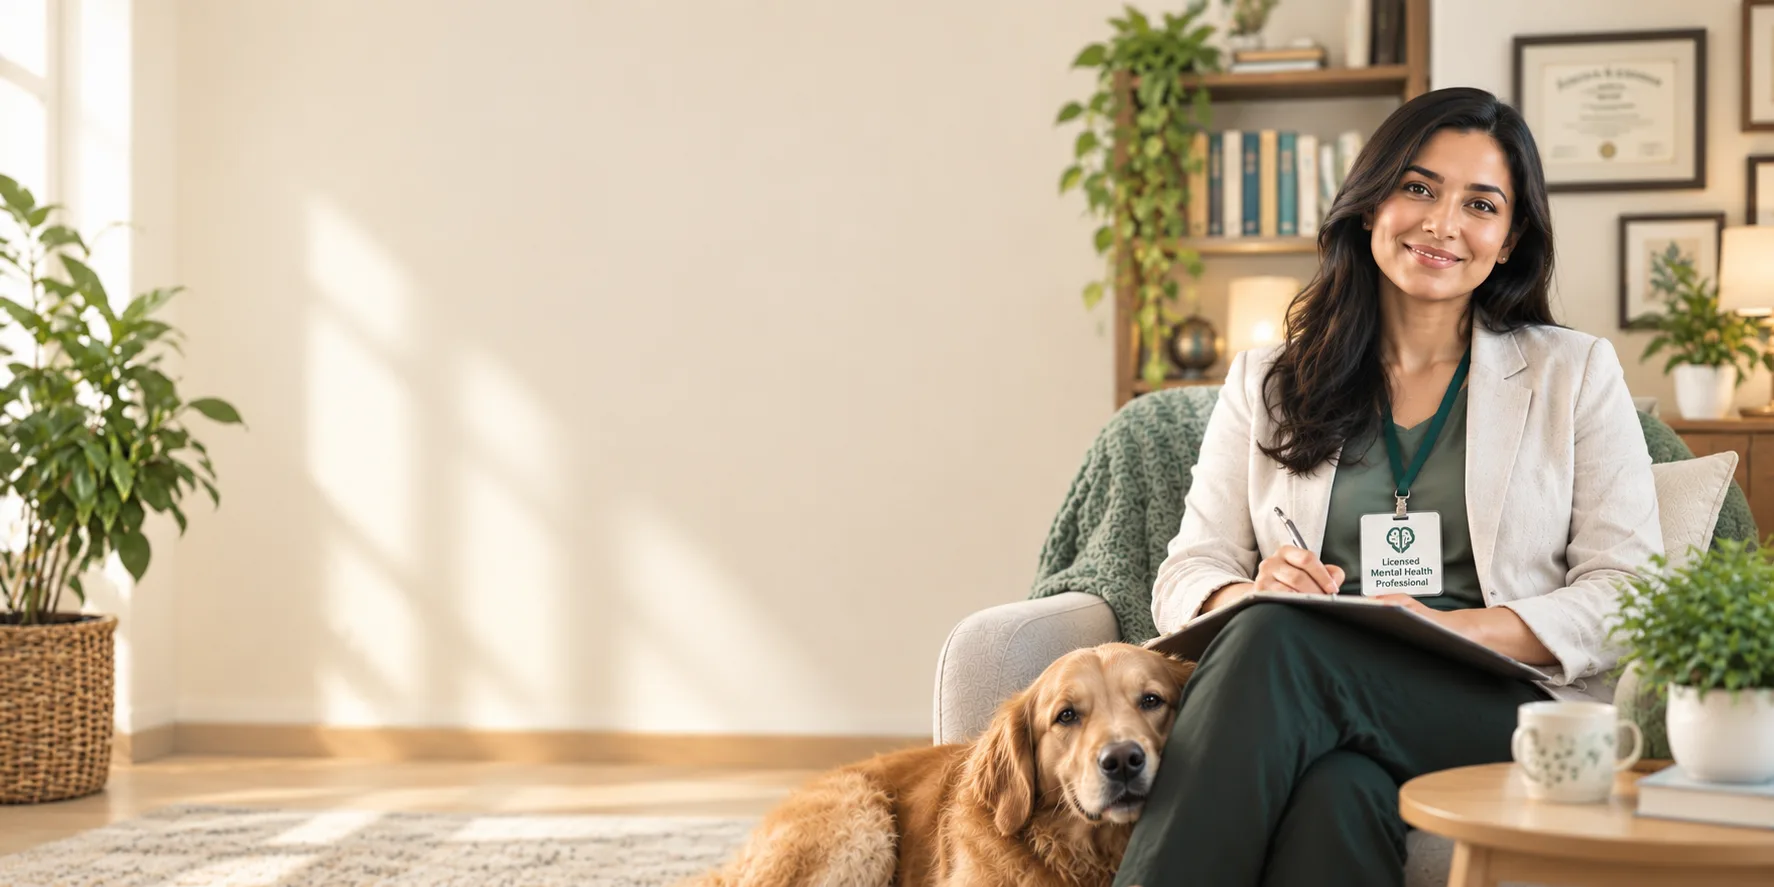
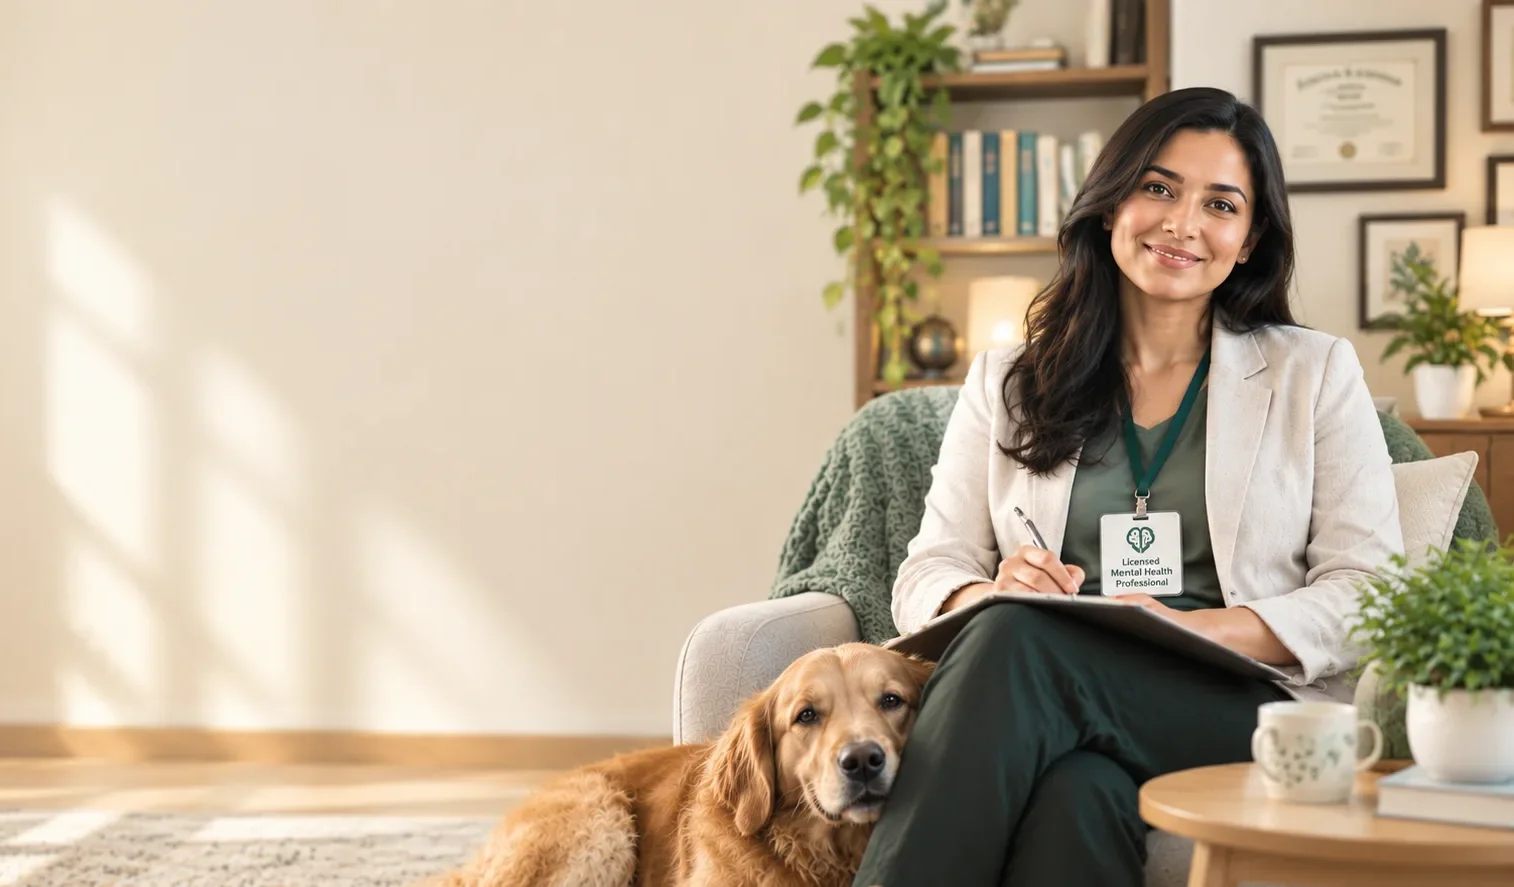
feat(doctors): optimize doctors hero crop, add responsive mobile bg to profile hero, and refine pricing typography

diff --git a/components/home/PricingSection.tsx b/components/home/PricingSection.tsx
@@ -207,7 +207,7 @@ function RenderCardsContainer({
                           <span className="flex h-[22px] shrink-0 items-center">
                             <CheckmarkIcon />
                           </span>
-                          <span className="min-w-0 font-sans text-[14px] font-semibold leading-[22px] text-body-text">
+                          <span className="body-small min-w-0 text-body-text">
                             {feature}
                           </span>
                         </div>
@@ -266,7 +266,7 @@ function RenderCardsContainer({
                     {card.features.map((f) => (
                       <div key={f} className="flex items-start gap-[8px]">
                         <span className="mt-[3px] shrink-0"><CheckmarkIcon /></span>
-                        <span className="font-sans font-semibold text-[14px] leading-[22px] text-body-text">
+                        <span className="body-small text-body-text">
                           {f}
                         </span>
                       </div>
@@ -314,7 +314,7 @@ function RenderCardsContainer({
                 {card.features.map((f) => (
                   <div key={f} className="flex items-start gap-[8px]">
                     <span className="mt-[3px] shrink-0"><CheckmarkIcon /></span>
-                    <span className="font-sans font-semibold text-[14px] leading-[22px] text-body-text">
+                    <span className="body-small text-body-text">
                       {f}
                     </span>
                   </div>
@@ -476,7 +476,7 @@ export function HelpPlanCard({ ctaHref = "#how-it-works", className = "" }: { ct
         ].map((f) => (
           <div key={f} className="flex items-center gap-[8px] min-h-[26px]">
             <CheckmarkIcon />
-            <span className="font-sans font-semibold text-[14px] leading-[26px] text-body-text">
+            <span className="body-small text-body-text">
               {f}
             </span>
           </div>

diff --git a/components/doctors/DoctorInternalHeroSection.tsx b/components/doctors/DoctorInternalHeroSection.tsx
@@ -2,6 +2,7 @@
 import React from "react";
 import Image from "next/image";
 import { DoctorProfile } from "@/data/doctorsData";
+import { BreakpointImage } from "@/components/common/BreakpointImage";
 import { CtaButton } from "@/components/common/CtaButton";
 
 interface DoctorInternalHeroSectionProps {
@@ -52,15 +53,26 @@ export function DoctorInternalHeroSection({ doctor }: DoctorInternalHeroSectionP
 
   return (
     <section className="relative w-full overflow-hidden bg-background">
-      <div className="absolute inset-0 pointer-events-none">
-        <Image
+      <div className="absolute inset-0 pointer-events-none sm:hidden">
+        <BreakpointImage
+          media="(max-width: 639px)"
+          quality={70}
+          src="/Hero_image_for_mobile_all.webp"
+          alt=""
+          fill
+          className="object-cover object-top"
+          sizes="(max-width: 639px) 100vw, 1px"
+        />
+      </div>
+      <div className="absolute inset-0 pointer-events-none hidden sm:block">
+        <BreakpointImage
+          media="(min-width: 640px)"
           quality={90}
           src="/doctors/doctor_internal.webp"
           alt="Licensed mental health professional"
           fill
-          priority
           className="object-cover object-[75%_center] lg:object-right"
-          sizes="100vw"
+          sizes="(min-width: 640px) 100vw, 1px"
         />
       </div>
 

diff --git a/components/doctors/DoctorsHeroSection.tsx b/components/doctors/DoctorsHeroSection.tsx
@@ -54,7 +54,7 @@ export function DoctorsHeroSection() {
             src="/doctors/doctors_hero-section.webp"
             alt={HEADING}
             fill
-            className="object-cover object-right"
+            className="object-cover object-[right_35%]"
             sizes="(min-width: 1024px) 100vw, 1px"
           />
         }
